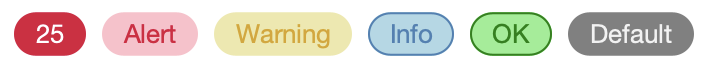
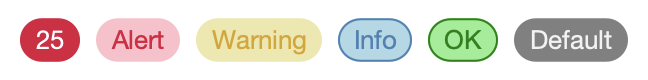
Update ActivityIndicator.

Changed region(s): [[0.3086, 0.1765, 0.9877, 0.8235], [0.0, 0.1765, 0.2778, 0.8235], [0.3086, 0.1765, 0.4938, 0.3235]]

diff --git a/sierra/src/main/java/org/httprpc/sierra/ActivityIndicator.java b/sierra/src/main/java/org/httprpc/sierra/ActivityIndicator.java
@@ -126,7 +126,7 @@ public class ActivityIndicator extends JComponent {
         }
 
         int getIndicatorSize() {
-            return (indicatorSize > 0) ? indicatorSize : switch (indicatorStyle) {
+            return switch (indicatorStyle) {
                 case SMALL -> 12;
                 case MEDIUM -> 18;
                 case LARGE -> 24;
@@ -135,8 +135,6 @@ public class ActivityIndicator extends JComponent {
     }
 
     private IndicatorStyle indicatorStyle = IndicatorStyle.MEDIUM;
-
-    private int indicatorSize = 0;
 
     private boolean active = false;
 
@@ -178,22 +176,6 @@ public class ActivityIndicator extends JComponent {
     }
 
     /**
-     * Constructs a new activity indicator.
-     *
-     * @param indicatorSize
-     * The indicator size.
-     *
-     * @deprecated
-     * Use {@link ActivityIndicator(IndicatorStyle)} instead.
-     */
-    @Deprecated
-    public ActivityIndicator(int indicatorSize) {
-        this();
-
-        setIndicatorSize(indicatorSize);
-    }
-
-    /**
      * Returns the indicator style. The default value is {@link IndicatorStyle#MEDIUM}.
      *
      * @return
@@ -215,41 +197,6 @@ public class ActivityIndicator extends JComponent {
         }
 
         this.indicatorStyle = indicatorStyle;
-
-        revalidate();
-        repaint();
-    }
-
-    /**
-     * Returns the indicator size.
-     *
-     * @return
-     * The indicator size.
-     *
-     * @deprecated
-     * Use {@link #getIndicatorStyle()} instead.
-     */
-    @Deprecated
-    public int getIndicatorSize() {
-        return indicatorSize;
-    }
-
-    /**
-     * Sets the indicator size.
-     *
-     * @param indicatorSize
-     * The indicator size.
-     *
-     * @deprecated
-     * Use {@link #setIndicatorStyle(IndicatorStyle)} instead.
-     */
-    @Deprecated
-    public void setIndicatorSize(int indicatorSize) {
-        if (indicatorSize < 12) {
-            throw new IllegalArgumentException();
-        }
-
-        this.indicatorSize = indicatorSize;
 
         revalidate();
         repaint();

diff --git a/sierra-test/src/main/java/org/httprpc/sierra/test/ActivityIndicatorTest.java b/sierra-test/src/main/java/org/httprpc/sierra/test/ActivityIndicatorTest.java
@@ -45,7 +45,7 @@ public class ActivityIndicatorTest extends JFrame implements Runnable {
 
         toggleButton.addActionListener(event -> toggleActivityIndicators(toggleButton.isSelected()));
 
-        setSize(360, 240);
+        setSize(320, 240);
         setVisible(true);
     }
 

diff --git a/README.md b/README.md
@@ -416,14 +416,14 @@ See [MenuButtonTest.java](sierra-test/src/main/java/org/httprpc/sierra/test/Menu
 ## Activity Indicators
 The `ActivityIndicator` component shows indeterminate progress:
 
-<img src="README/activity-indicator.png" width="110px"/>
+<img src="README/activity-indicator.png" width="102px"/>
 
 See [ActivityIndicatorTest.java](sierra-test/src/main/java/org/httprpc/sierra/test/ActivityIndicatorTest.java) for more information.
 
 ## Badges
 The `Badge` component displays a small amount of status information:
 
-<img src="README/badge.png" width="354px"/>
+<img src="README/badge.png" width="324px"/>
 
 See [BadgeTest.java](sierra-test/src/main/java/org/httprpc/sierra/test/BadgeTest.java) for more information.
 
